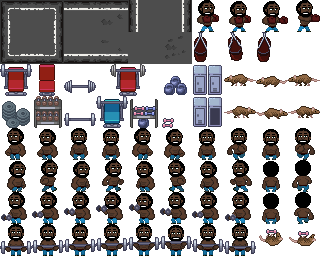
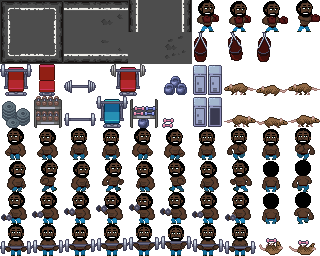
Rat

Changed region(s): [[0.6875, 0.4062, 1.0, 0.5], [0.6875, 0.2812, 1.0, 0.375], [0.8125, 0.875, 1.0, 1.0]]

diff --git a/asset-canister/nft/d490e01c-b2a9-48a8-a2b7-70a6ca2a1806.html b/asset-canister/nft/d490e01c-b2a9-48a8-a2b7-70a6ca2a1806.html
@@ -95,11 +95,47 @@
                     <object id="104" name="npc:character" type="Spawn" x="160" y="96">
                         <point/>
                     </object>
+                    <object id="106" name="npc:rat" type="Spawn" x="55" y="68">
+                        <point/>
+                    </object>
                     <object id="105" name="obj:punchingbag" type="Spawn" x="120" y="100">
                         <point/>
                     </object>
                 </objectgroup>
             </map>
+        </script>
+        <script id="rat" type="text/xml">
+            <actor version="0.2" name="rat" type="Rat" resource="#atlas" width="320" height="320" cols="10" rows="10">
+                <movement speed="80"/>
+                <collider x="8" y="24" width="16" height="8"/>
+                <animation name="idle">
+                    <frame tileid="37" duration="100"/>
+                </animation>
+                <animation name="moveUp">
+                    <frame tileid="37" duration="100"/>
+                    <frame tileid="38" duration="100"/>
+                    <frame tileid="39" duration="100"/>
+                </animation>
+                <animation name="moveDown">
+                    <frame tileid="27" duration="100"/>
+                    <frame tileid="28" duration="100"/>
+                    <frame tileid="29" duration="100"/>
+                </animation>
+                <animation name="moveLeft">
+                    <frame tileid="27" duration="100"/>
+                    <frame tileid="28" duration="100"/>
+                    <frame tileid="29" duration="100"/>
+                </animation>
+                <animation name="moveRight">
+                    <frame tileid="37" duration="100"/>
+                    <frame tileid="38" duration="100"/>
+                    <frame tileid="39" duration="100"/>
+                </animation>
+                <animation name="packingDumbbells">
+                    <frame tileid="78" duration="100"/>
+                    <frame tileid="79" duration="100"/>
+                </animation>
+            </actor>
         </script>
         <script id="character" type="text/xml">
             <actor version="0.2" name="bodybuilder" type="Bodybuilder" resource="#atlas" width="320" height="320" cols="10" rows="10">
@@ -339,8 +375,21 @@
 
             class Rat extends MOB {
 
-                packingDumbbell() {
+                packingDumbbells(time) {
+                    this.duration = time;
+                    this.action = 'packingDumbbells';
                 }
+
+                update(args) {
+                    super.update(args);
+                    if (this.duration > 0) {
+                        if (!['idle', 'wander'].includes(this.action)) this.animate(this.action, args.deltaTime);
+                    }
+                    else {
+                        this.wander();
+                    }
+                }
+
             }
 
             class Gamelet {
@@ -358,10 +407,12 @@
                     };
                     this.lastTime = 0;
                     this.view.canvas.addEventListener('click', event => {
-                        // console.log(this.level.actors.obj)
-                        // this.level.actors.npc['character.1'].openTheLocker(2);
-                        // this.level.actors.obj['locker.3'].open(2);
+                        // console.log(this.level.actors)
+                        // this.level.actors.npc['character.1'].openTheLocker(1);
+                        // this.level.actors.obj['locker.3'].open(1);
+                        // this.level.actors.npc['rat.2'].packingDumbbells(10);
                         // return;
+                        // Character collisions
                         for (const [otherName, otherObj] of Object.entries(this.level.actors.obj)) {
                             if (this.level.actors.npc['character.1'].collideWithSprite({with: otherObj, view: this.view})) {
                                 const duration = randomRangeInt(10, 20);
@@ -371,8 +422,8 @@
                                         this.level.actors.obj['barbell.1'].use(duration);
                                         break;
                                     case 'locker':
-                                        this.level.actors.npc['character.1'].openTheLocker(2);
-                                        this.level.actors.obj['locker.3'].open(2);
+                                        this.level.actors.npc['character.1'].openTheLocker(1);
+                                        this.level.actors.obj['locker.3'].open(1);
                                         break;
                                     case 'punchingbag':
                                         this.level.actors.npc['character.1'].boxing(duration);
@@ -380,6 +431,17 @@
                                         break;
                                     case 'shelf':
                                         this.level.actors.npc['character.1'].packingDumbbells(duration);
+                                        break;
+                                }
+                            }
+                        }
+                        // Rat collisions
+                        for (const [otherName, otherObj] of Object.entries(this.level.actors.obj)) {
+                            if (this.level.actors.npc['rat.2'].collideWithSprite({with: otherObj, view: this.view})) {
+                                const duration = randomRangeInt(10, 20);
+                                switch(otherName.split('.')[0]) {
+                                    case 'dumbbells':
+                                        this.level.actors.npc['rat.2'].packingDumbbells(duration);
                                         break;
                                 }
                             }
@@ -395,9 +457,17 @@
                 }
 
                 async load() {
-                    const tileset = await this.loader.tsx.parseTileSet({ xml: document.getElementById('tiles').innerText, resource: '#atlas', scale: this.scale });
+                    const tileset = await this.loader.tsx.parseTileSet({
+                        xml: document.getElementById('tiles').innerText,
+                        resource: '#atlas',
+                        scale: this.scale
+                    });
                     this.loader.tmx = new LoaderTMX({'tilesets': {'tiles': tileset}});
-                    this.level = await this.loader.tmx.parseLevel({ xml: document.getElementById('map').innerText, scale: this.scale, prefetch: false });
+                    this.level = await this.loader.tmx.parseLevel({
+                        xml: document.getElementById('map').innerText,
+                        scale: this.scale,
+                        prefetch: false
+                    });
                     this.view.centre({x: 448, y: 448});
                 }
 
@@ -423,7 +493,7 @@
                     // Update/Render level
                     this.level.update(this.view, deltaTime);
                     this.level.render(this.view);
-                    this.level.debug(this.view);
+                    // this.level.debug(this.view);
                     // Time udpate
                     this.lastTime = currentTime;
                     // Next frame synchro
@@ -431,7 +501,6 @@
                 }
 
             }
-
 
             // Init
             window.addEventListener('load', () => {
